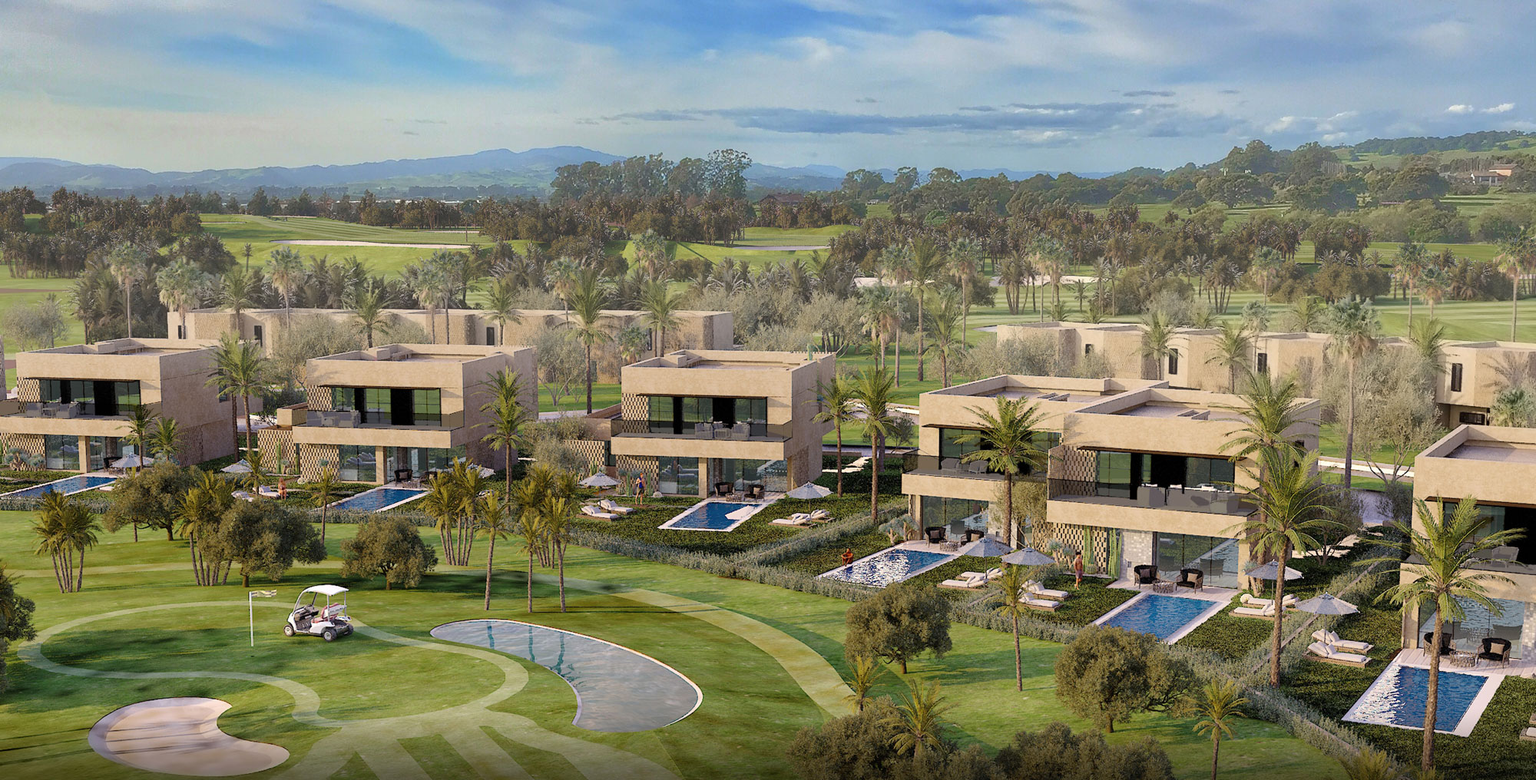
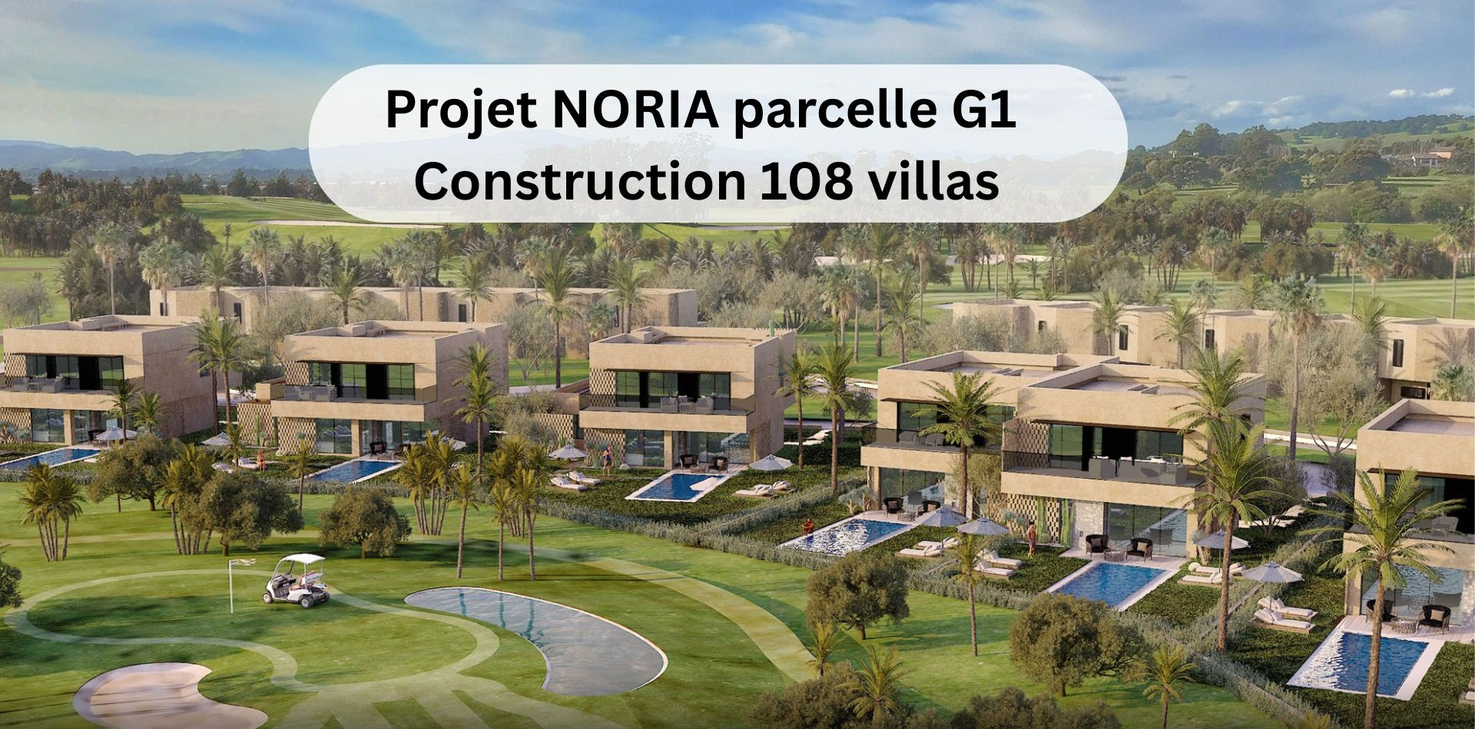
Add files via upload

diff --git a/suivi.py b/suivi.py
@@ -1,31 +1,31 @@
 import streamlit as st
 import pandas as pd
 import os
-import time  # <--- NOUVEL IMPORT IMPORTANT
+import time
 
 # --- 0. CONFIGURATION DE LA PAGE & INTRO ---
-# On configure la page pour qu'elle prenne toute la largeur
 st.set_page_config(page_title="Suivi Chantier Noria", layout="wide")
 
 # Vérifie si l'intro a déjà été montrée
 if "intro_complete" not in st.session_state:
     # C'est le tout premier lancement !
     
-    # On crée un conteneur vide pour l'animation
     intro_placeholder = st.empty()
     
     with intro_placeholder.container():
-        # 1. On affiche l'image en grand
-        # Assure-toi que l'image s'appelle bien "noria.jpg" et est dans le dossier
-        st.image("noria.jpg", use_container_width=True) 
-        
-        # 2. On affiche le texte "Flottant" avec du style HTML/CSS (Centré, Bleu, Gros)
+        # PETITE ASTUCE CSS : On enlève les marges blanches pour que l'image soit vraiment GRANDE
         st.markdown("""
-            <div style='text-align: center; color: #1f77b4; margin-top: -50px;'>
-                <h1 style='font-size: 50px;'>Projet Noria Parcelle G1</h1>
-                <h2 style='font-size: 30px;'>Construction 108 Villas</h2>
-            </div>
+            <style>
+                   .block-container {
+                        padding-top: 1rem;
+                        padding-left: 0rem;
+                        padding-right: 0rem;
+                    }
+            </style>
             """, unsafe_allow_html=True)
+        
+        # 1. On affiche JUSTE l'image en grand (sans le texte)
+        st.image("noria.jpg", use_container_width=True)
     
     # On attend 3 secondes
     time.sleep(3)
@@ -35,11 +35,10 @@ if "intro_complete" not in st.session_state:
     
     # On marque l'intro comme "Vue" pour ne plus la refaire
     st.session_state["intro_complete"] = True
+
 # --- 1. CONFIGURATION ---
-# C'est ici que le fichier de sauvegarde sera créé
 FICHIER_DONNEES = "mon_suivi.csv"
 
-# Tes listes (tu pourras les changer plus tard)
 LISTE_VILLAS = ["Villa 108", "Villa 70", "Villa 101"]
 LISTE_TACHES = [
     "1. Réception des axes",
@@ -49,13 +48,11 @@ LISTE_TACHES = [
     "5. Poteaux"
 ]
 
-# --- 2. FONCTIONS (Le cerveau) ---
+# --- 2. FONCTIONS ---
 def charger_donnees():
-    """Charge ou crée le tableau de données"""
     if os.path.exists(FICHIER_DONNEES):
         return pd.read_csv(FICHIER_DONNEES)
     else:
-        # Si le fichier n'existe pas, on le crée vide
         data = []
         for villa in LISTE_VILLAS:
             for tache in LISTE_TACHES:
@@ -72,48 +69,40 @@ def charger_donnees():
 def sauvegarder(df):
     df.to_csv(FICHIER_DONNEES, index=False)
 
-# --- 3. INTERFACE (Ce que tu vois) ---
+# --- 3. INTERFACE PRINCIPALE ---
 st.title("🏗 Suivi Chantier - Villas")
 
-# On charge le tableau
 df = charger_donnees()
 
-# Menu à gauche pour choisir la Villa
 villa_choisie = st.sidebar.selectbox("🔎 Choisir une Villa :", LISTE_VILLAS)
 
 st.header(f"Suivi : {villa_choisie}")
 
-# On filtre pour n'afficher que la villa choisie
 masque = df["Villa"] == villa_choisie
 lignes_villa = df[masque]
 
-# On affiche chaque tâche ligne par ligne
 for index, row in lignes_villa.iterrows():
     col1, col2 = st.columns([3, 1])
     
     with col1:
         st.subheader(row["Tache"])
-        # Ici on ajoutera plus tard le bouton pour le fichier preuve
         st.caption(f"Preuve actuelle : {row['Preuve']}")
         
     with col2:
-        # La couleur change selon le statut
         statut_actuel = row["Statut"]
         options = ["À faire", "En cours", "OK", "Non Conforme"]
         
-        # Le menu déroulant
         nouveau_statut = st.selectbox(
             "État", 
             options, 
             index=options.index(statut_actuel),
-            key=f"{row['Villa']}-{row['Tache']}" # Clé unique obligatoire
+            key=f"{row['Villa']}-{row['Tache']}"
         )
         
-        # Si on change l'état, on sauvegarde
         if nouveau_statut != statut_actuel:
             df.loc[index, "Statut"] = nouveau_statut
             sauvegarder(df)
             st.success("✅ Mis à jour !")
-            st.rerun() # Recharge la page
+            st.rerun()
 
-    st.divider() # Ligne de séparation
+    st.divider()
